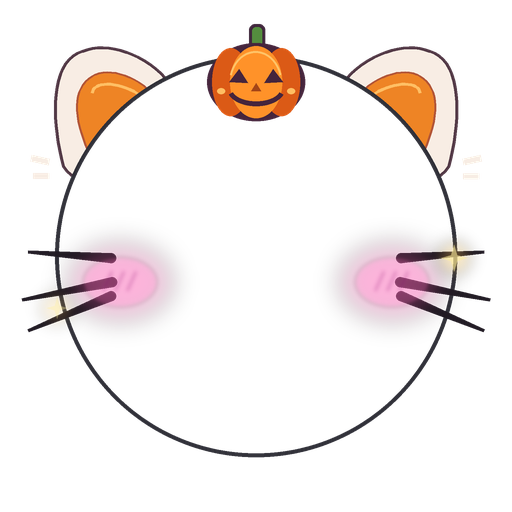
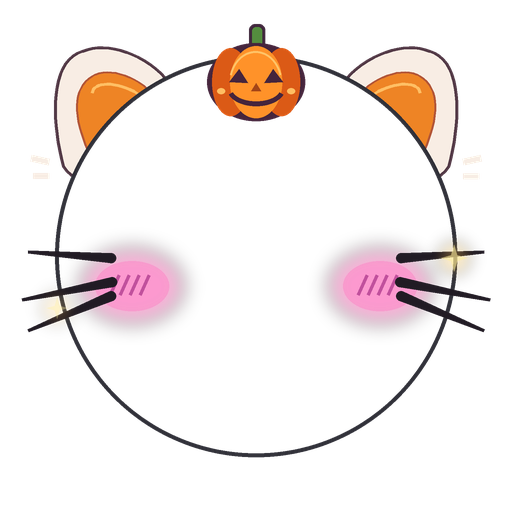
fix : 고양이 볼터치 원형 복원과 전환 완화

Changed region(s): [[0.625, 0.4688, 0.8438, 0.6562], [0.1562, 0.4688, 0.375, 0.6562]]

diff --git a/scripts/generate-halloween-cat-frame.py b/scripts/generate-halloween-cat-frame.py
@@ -145,8 +145,9 @@ def draw_whiskers(layer: Image.Image, sway: float) -> None:
 
 
 def draw_blush(layer: Image.Image, progress: float) -> None:
-    # The reference alternates between visible cheeks and a bare avatar.
-    opacity = smoothstep((math.cos(2 * math.pi * (progress - 0.10)) + 0.10) / 0.80)
+    # Preserve the original cheek artwork and spread its fade across more frames.
+    wave = (1 + math.cos(2 * math.pi * (progress - 0.10))) / 2
+    opacity = smoothstep((wave - 0.10) / 0.75)
     if opacity <= 0:
         return
 
@@ -156,8 +157,8 @@ def draw_blush(layer: Image.Image, progress: float) -> None:
     details = Image.new("RGBA", size)
     detail_draw = ImageDraw.Draw(details)
 
-    for center_x in (120, 392):
-        center_y = 282
+    for center_x in (132, 380):
+        center_y = 286
         glow_draw.ellipse(
             (
                 round((center_x - 52) * DRAW_SCALE),
@@ -165,7 +166,7 @@ def draw_blush(layer: Image.Image, progress: float) -> None:
                 round((center_x + 52) * DRAW_SCALE),
                 round((center_y + 38) * DRAW_SCALE),
             ),
-            fill=(244, 82, 169, round(85 * opacity)),
+            fill=(244, 82, 169, round(115 * opacity)),
         )
         detail_draw.ellipse(
             (
@@ -174,9 +175,9 @@ def draw_blush(layer: Image.Image, progress: float) -> None:
                 round((center_x + 37) * DRAW_SCALE),
                 round((center_y + 25) * DRAW_SCALE),
             ),
-            fill=(255, 114, 190, round(55 * opacity)),
+            fill=(255, 114, 190, round(95 * opacity)),
         )
-        for offset in (-12, 0, 12):
+        for offset in (-17, -7, 3, 13):
             detail_draw.line(
                 scale_points(
                     [
@@ -184,13 +185,13 @@ def draw_blush(layer: Image.Image, progress: float) -> None:
                         (center_x + offset + 4, center_y - 11),
                     ]
                 ),
-                fill=(172, 46, 135, round(110 * opacity)),
+                fill=(172, 46, 135, round(185 * opacity)),
                 width=3 * DRAW_SCALE,
             )
 
-    softened = glow.filter(ImageFilter.GaussianBlur(12 * DRAW_SCALE))
+    softened = glow.filter(ImageFilter.GaussianBlur(9 * DRAW_SCALE))
     layer.alpha_composite(softened)
-    layer.alpha_composite(details.filter(ImageFilter.GaussianBlur(2 * DRAW_SCALE)))
+    layer.alpha_composite(details)
 
 
 def draw_pumpkin(layer: Image.Image, progress: float) -> None:
@@ -315,8 +316,8 @@ def render_frame(index: int) -> Image.Image:
             width=6 * DRAW_SCALE,
         )
     draw_pumpkin(layer, progress)
-    draw_whiskers(layer, whisker_sway)
     draw_blush(layer, progress)
+    draw_whiskers(layer, whisker_sway)
     draw_sparkles(layer, progress)
     return layer.resize((CANVAS_SIZE, CANVAS_SIZE), Image.Resampling.LANCZOS)
 
